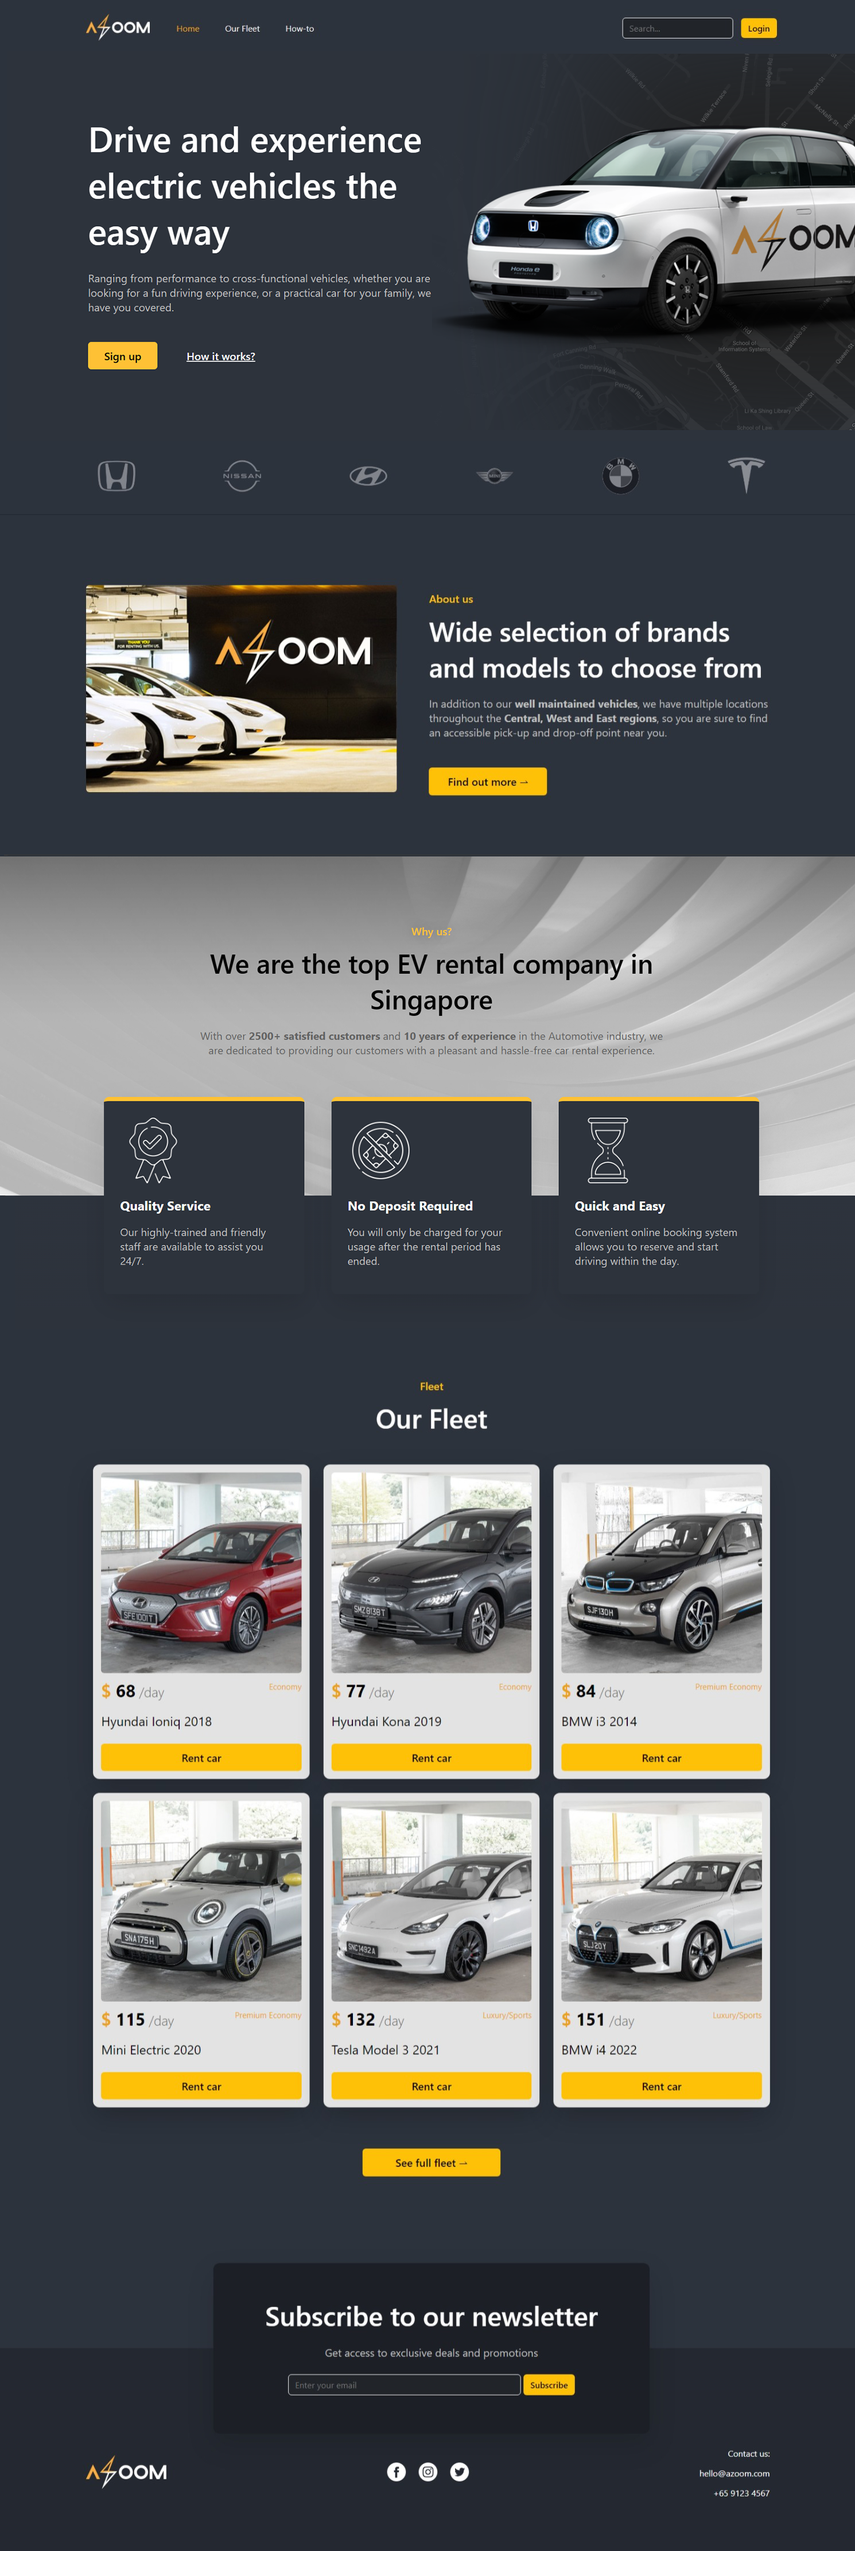
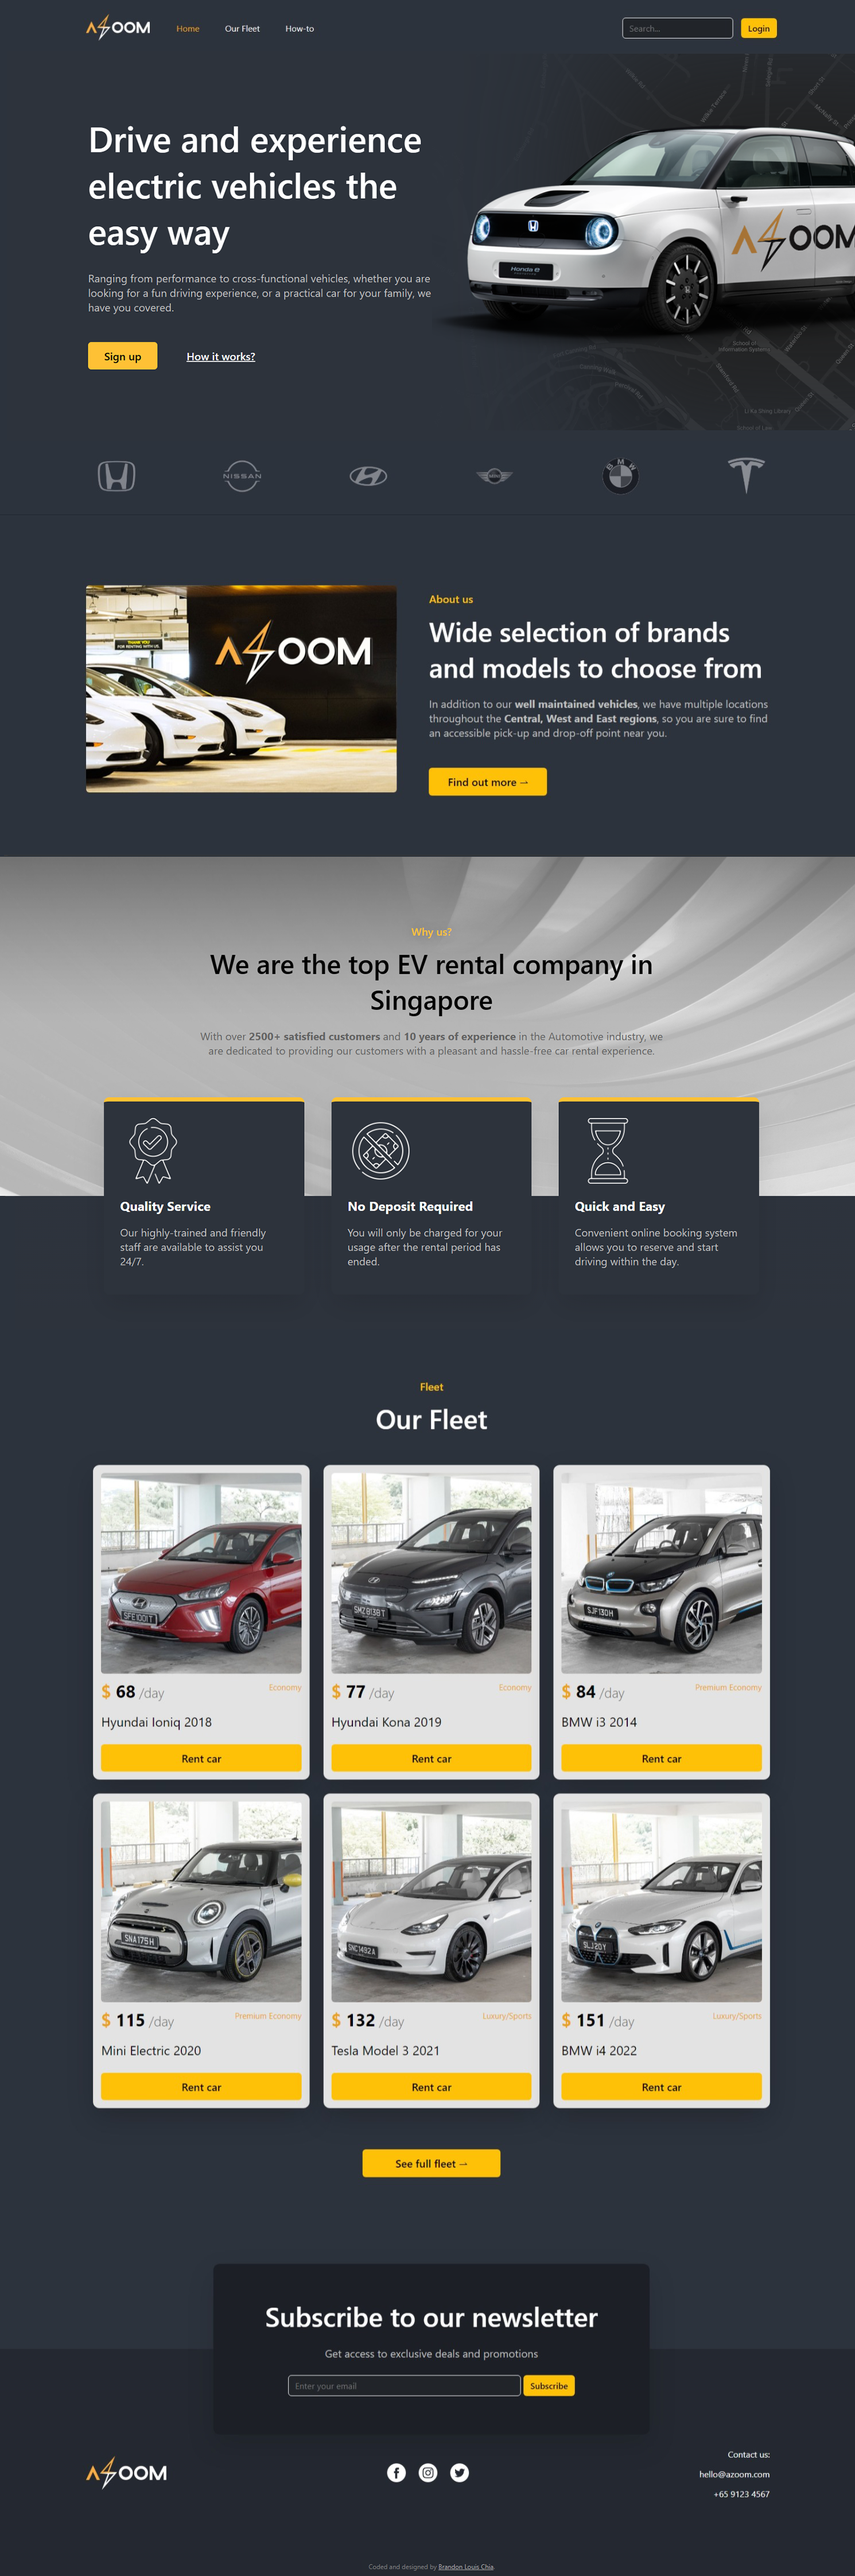
added credit to footer

diff --git a/css/style.css b/css/style.css
@@ -192,6 +192,18 @@ footer {
     color: white;
 }
 
+/* Footer credit */
+.footerCredit {
+    font-size: 12px;
+    text-align: center;
+    color: gray;
+    padding-bottom: 10px;
+}
+
+.footerCredit a {
+    color: darkgray;
+}
+
 
 
 
@@ -606,7 +618,7 @@ footer {
 
 
 
-/* RENTPROCESS.HTML RENTPROCESS.HTML RENTPROCESS.HTML RENTPROCESS.HTML RENTPROCESS.HTML RENTPROCESS.HTML RENTPROCESS.HTML RENTPROCESS.HTML */
+/* RENTFORM.HTML RENTFORM.HTML RENTFORM.HTML RENTFORM.HTML RENTFORM.HTML RENTFORM.HTML RENTFORM.HTML RENTFORM.HTML */
 .reservationContainer {
     display: flex;
 }

diff --git a/html/fleet.html b/html/fleet.html
@@ -211,6 +211,9 @@
                     </span>
                 </span>
             </div>
+            <div class="footerCredit">
+                Coded and designed by <a href="https://github.com/brandonlouis?tab=repositories">Brandon Louis Chia</a>.
+            </div>
         </footer>
 
         <script src="../js/main.js"></script>

diff --git a/html/howto.html b/html/howto.html
@@ -140,6 +140,9 @@
                     </span>
                 </span>
             </div>
+            <div class="footerCredit">
+                Coded and designed by <a href="https://github.com/brandonlouis?tab=repositories">Brandon Louis Chia</a>.
+            </div>
         </footer>
 
         <script src="../js/main.js"></script>

diff --git a/html/rentForm.html b/html/rentForm.html
@@ -246,6 +246,9 @@
                     </span>
                 </span>
             </div>
+            <div class="footerCredit">
+                Coded and designed by <a href="https://github.com/brandonlouis?tab=repositories">Brandon Louis Chia</a>.
+            </div>
         </footer>
 
         <script src="../js/main.js"></script>

diff --git a/index.html b/index.html
@@ -248,6 +248,9 @@
                     </span>
                 </span>
             </div>
+            <div class="footerCredit">
+                Coded and designed by <a href="https://github.com/brandonlouis?tab=repositories">Brandon Louis Chia</a>.
+            </div>
         </footer>
 
         <script src="js/main.js"></script>

diff --git a/README.md b/README.md
@@ -26,7 +26,7 @@ A simple website for car rentals that emphasizes UI/UX design.
 ![ourFleet](./screenshots/ourFleet.jpeg)
 ![howTo](./screenshots/howTo.jpeg)
 ![vehicleListing](./screenshots/vehicleListing.png)
-![reservationPage](./screenshots/reservationPage.jpeg)
+![reservationForm](./screenshots/reservationForm.jpeg)
 ![reservationSuccessful](./screenshots/reservationSuccessful.jpeg)
 ![loginInfo](./screenshots/loginInfo.png)
 ![cardInfo](./screenshots/cardInfo.png)
